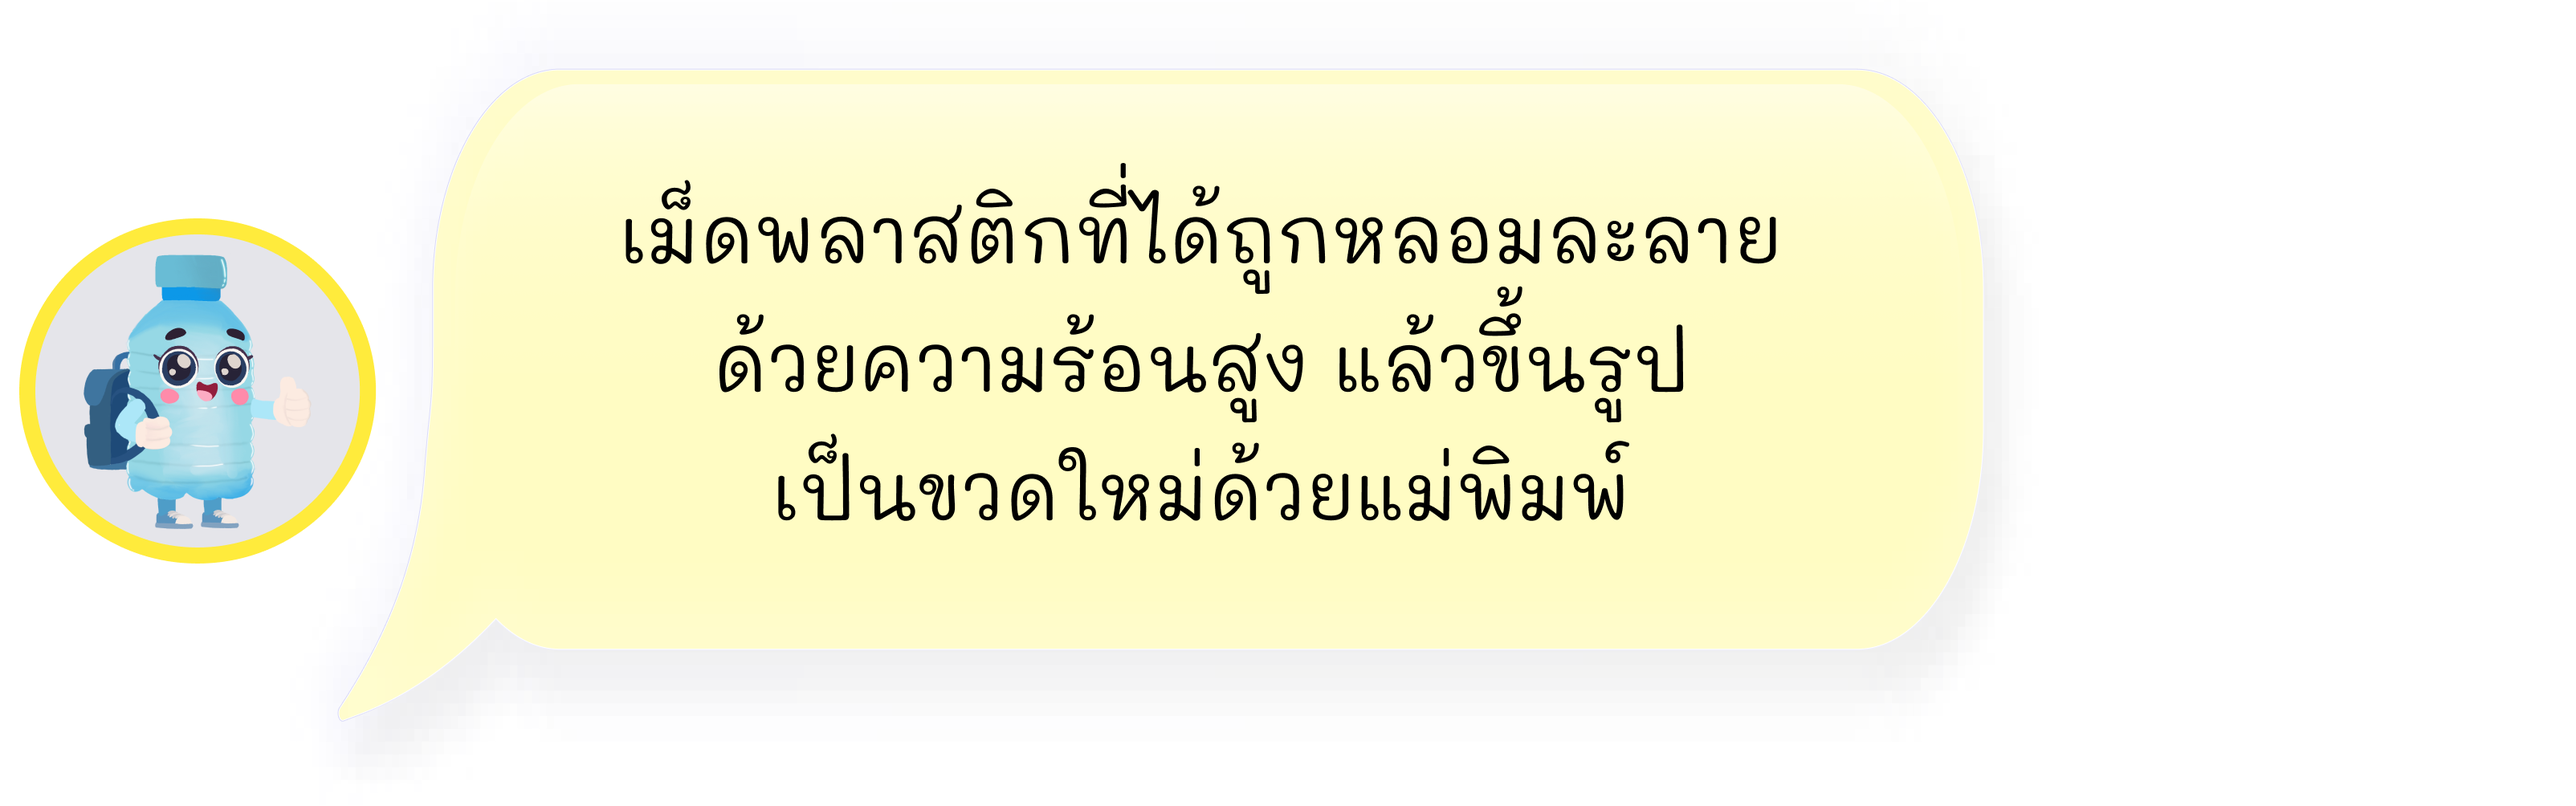
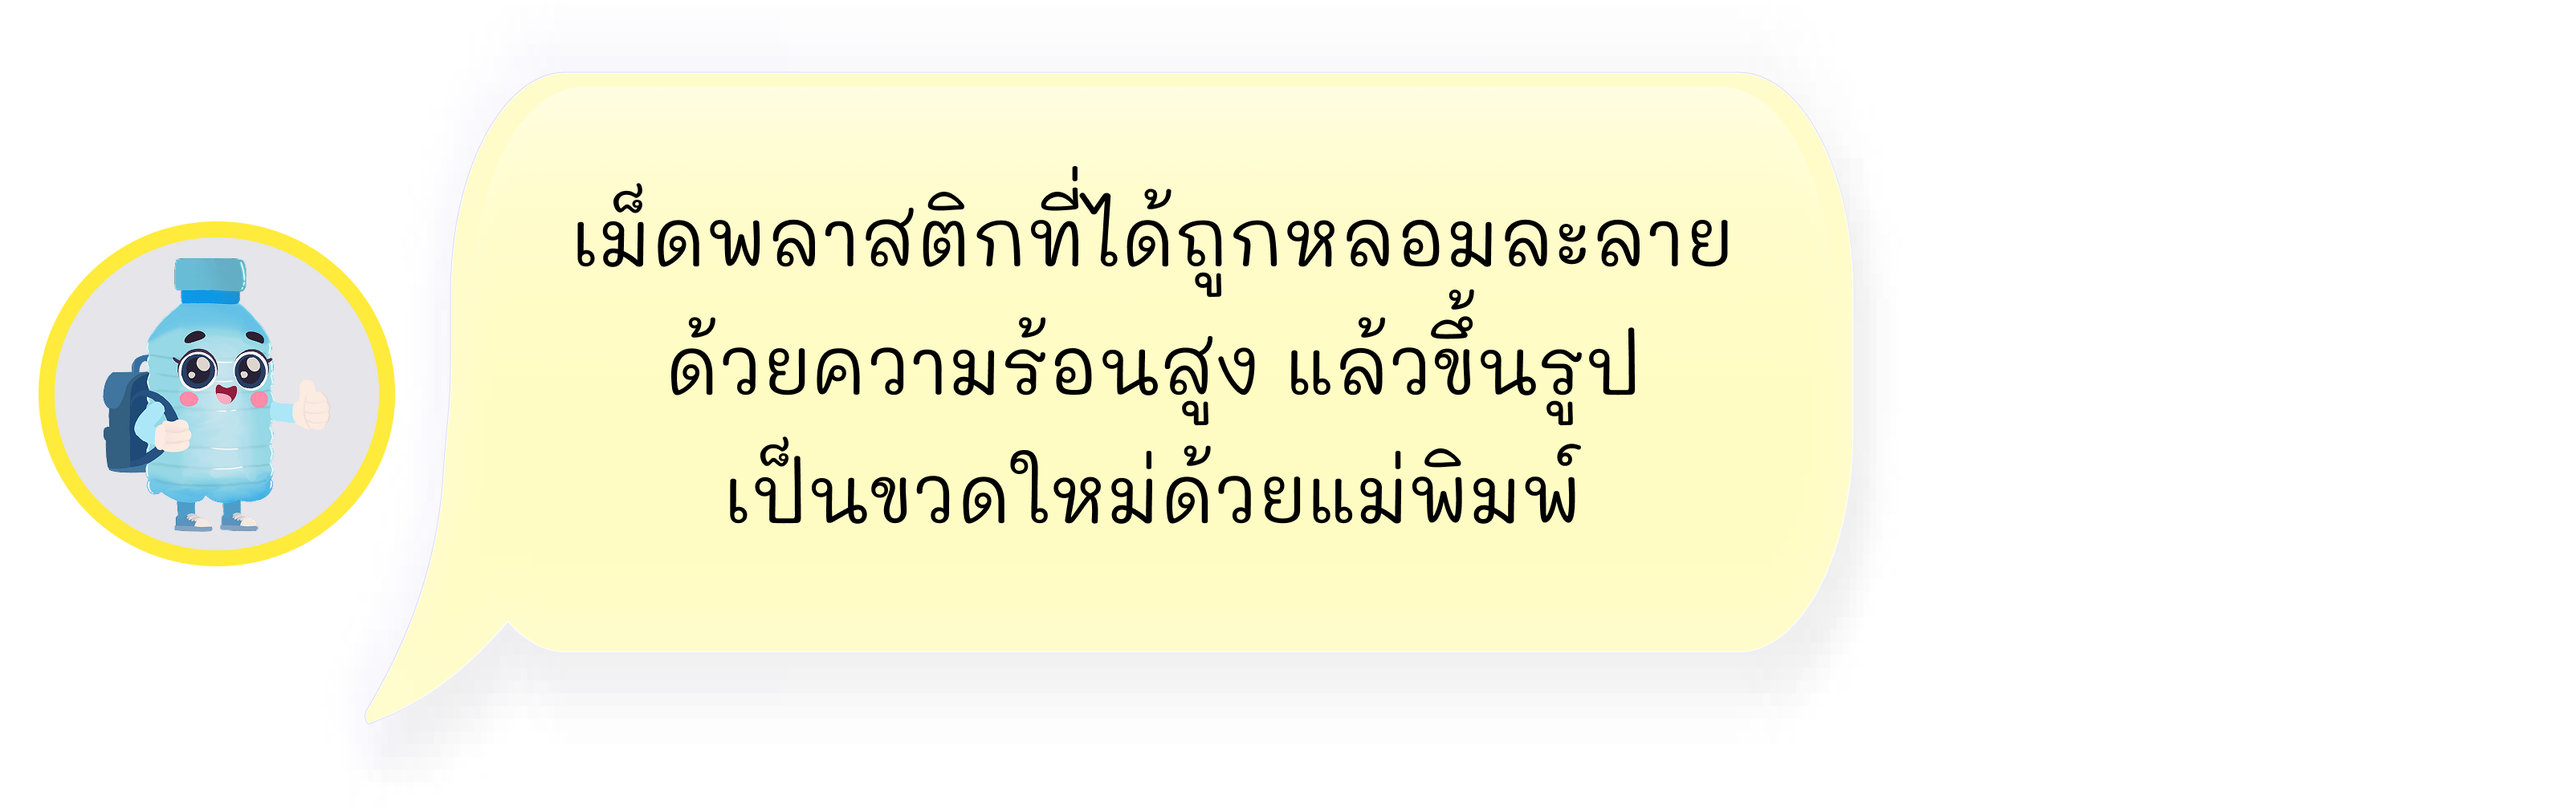
all

diff --git a/app/components/SceneRecycle1.tsx b/app/components/SceneRecycle1.tsx
@@ -40,33 +40,38 @@ export default function SceneRecycle1() {
 
   return (
     <>
-      {/* Scene 1 */}
-      <section id="scene-recycle1"  className="relative w-full min-h-screen overflow-hidden">
-        <Image
-          src="/assets/recycle1.png"
-          alt="recycle background"
-          width={1920}
-          height={1080}
-          className="w-full h-auto object-cover"
-          priority
-        />
+      <section id="scene-recycle1" className="relative w-full h-screen overflow-hidden">
+  <Image
+    src="/assets/recycle1.png"
+    alt="recycle background"
+    fill
+    priority
+    className="object-cover"
+  />
 
 <div
-        ref={recycleTopicRef}
-        className={`absolute top-[20%] right-[10%] w-[60vw] max-w-[1000px] z-10 transition-all duration-700 ease-out delay-200 ${
-          isRecycleTopicVisible
-            ? 'translate-y-0 scale-100 opacity-100'
-            : 'translate-y-10 scale-95 opacity-0'
-        }`}
-      >
-        <Image
-          src="/assets/topicrecycle1.png"
-          alt="topic"
-          width={1000}
-          height={500}
-          className="w-full h-auto"
-        />
-      </div>
+  ref={recycleTopicRef}
+  className={`absolute 
+              top-[12%] sm:top-[10%] md:top-[10%]  xl:top-[12%] 2xl:top-[12%]
+              right-[10%] 
+              w-[100vw] sm:w-[65vw] md:w-[60vw] xl:w-[70vw] 2xl:w-[120vw]
+              max-w-[1000px] 
+              z-10 
+              transition-all duration-700 ease-out delay-200
+              ${
+                isRecycleTopicVisible
+                  ? 'translate-y-0 scale-100 opacity-100'
+                  : 'translate-y-10 scale-95 opacity-0'
+              }`}
+>
+  <Image
+    src="/assets/topicrecycle1.png"
+    alt="topic"
+    width={1000}
+    height={500}
+    className="w-full h-auto"
+  />
+</div>
 
         <div className="absolute top-[60%] right-[10%] w-[40vw] max-w-[1000px] z-10">
           <Image
@@ -86,7 +91,7 @@ export default function SceneRecycle1() {
         >
           
           
-            <div className="relative w-[180px] sm:w-[300px] md:w-[320px] lg:w-[600px] xl:w-[650px] h-auto">
+            <div className="relative w-[180px] sm:w-[300px] md:w-[320px]  xl:w-[600px] 2xl:w-[800px] h-auto">
             <Image
               src="/assets/cargarbage.png"
               alt="car"
@@ -108,18 +113,14 @@ export default function SceneRecycle1() {
       </section>
 
       {/* Scene 2 */}
-      <section
-        id="scene-recycle-2"
-        className="relative w-full min-h-screen overflow-hidden"
-      >
-        <Image
-          src="/assets/recycle2.png"
-          alt="recycle background"
-          width={1920}
-          height={1197}
-          className="w-full h-auto object-cover"
-          priority
-        />
+      <section id="scene-recycle-2" className="relative w-full h-screen overflow-hidden">
+  <Image
+    src="/assets/recycle2.png"
+    alt="recycle background"
+    fill
+    priority
+    className="object-cover"
+  />
 
         {/* 🗑 garbage image */}
         <div
@@ -140,7 +141,7 @@ export default function SceneRecycle1() {
        {/* 📷 info image shown on click */}
 {showInfo && (
   <div
-    className="absolute bottom-[30%] lg:top-96 sm:top-36 md:top-44 left-1/2 -translate-x-1/2 z-30 cursor-pointer"
+    className="absolute bottom-[30%]  sm:top-20 md:top-20 xl:top-44 2xl:top-72  left-1/2 -translate-x-1/2 z-30 cursor-pointer"
     onClick={() => setShowInfo(false)}
   >
     <Image
@@ -148,7 +149,7 @@ export default function SceneRecycle1() {
       alt="info"
       width={350} // ลดขนาดลงจาก 400
       height={350} // ลดขนาดลงจาก 400
-      className="w-[30vw] max-w-[400px] h-auto rounded-lg shadow-lg"
+      className=" w-[70vw] sm:w-[30vw] md:w-[30vw]  xl:w-[35vw] 2xl:w-[35vw] h-auto rounded-lg shadow-lg"
     />
   </div>
 )}

diff --git a/app/components/Scene3R.tsx b/app/components/Scene3R.tsx
@@ -34,14 +34,14 @@ export default function Scene3R() {
             initial={{ opacity: 0, y: 30 }}
             animate={{ opacity: 1, y: 0 }}
             transition={{ duration: 0.6 }}
-            className="relative top-[8px] sm:top-[-35px]"
+            className="relative top-[8px] sm:top-[-30px] md:top-[-35px] xl:top-[-60px] 2xl:top-[-70px]"
           >
             <Image
               src={activeImage === 'reuse' ? '/assets/ruy.png' : '/assets/ru.png'}
               alt="reuse"
               width={120}
               height={120}
-              className="w-[80px] sm:w-[100px] md:w-[120px] lg:w-[200px] cursor-pointer hover:scale-105 transition"
+              className="w-[80px] sm:w-[100px] md:w-[120px] lg:w-[200px] 2xl:w-[300px] cursor-pointer hover:scale-105 transition"
               onClick={() => handleToggle('reuse')}
             />
           </motion.div>
@@ -51,14 +51,14 @@ export default function Scene3R() {
             initial={{ opacity: 0, y: 30 }}
             animate={{ opacity: 1, y: 0 }}
             transition={{ duration: 0.6, delay: 0.2 }}
-            className="relative top-[10px] sm:top-[-35px]"
+            className="relative top-[10px] sm:top-[-30px] md:top-[-35px] xl:top-[-60px] 2xl:top-[-70px]"
           >
             <Image
               src={activeImage === 'reduce' ? '/assets/rdy.png' : '/assets/rd.png'}
               alt="reduce"
               width={120}
               height={120}
-              className="w-[80px] sm:w-[100px] md:w-[120px] lg:w-[200px] cursor-pointer hover:scale-105 transition"
+              className="w-[80px] sm:w-[100px] md:w-[120px] lg:w-[200px]  2xl:w-[300px] cursor-pointer hover:scale-105 transition"
               onClick={() => handleToggle('reduce')}
             />
           </motion.div>
@@ -68,14 +68,14 @@ export default function Scene3R() {
             initial={{ opacity: 0, y: 30 }}
             animate={{ opacity: 1, y: 0 }}
             transition={{ duration: 0.6, delay: 0.4 }}
-            className="relative top-[10px] sm:top-[-35px]"
+            className="relative top-[10px] sm:top-[-30px] md:top-[-35px]  xl:top-[-60px] 2xl:top-[-70px]"
           >
             <Image
               src={activeImage === 'recycle' ? '/assets/rcy.png' : '/assets/rc.png'}
               alt="recycle"
               width={120}
               height={120}
-              className="w-[80px] sm:w-[100px] md:w-[120px] lg:w-[200px] cursor-pointer hover:scale-105 transition"
+              className="w-[80px] sm:w-[100px] md:w-[120px] lg:w-[200px]  2xl:w-[300px] cursor-pointer hover:scale-105 transition"
               onClick={() => handleToggle('recycle')}
             />
           </motion.div>
@@ -96,7 +96,7 @@ export default function Scene3R() {
               height={200}
               quality={100}
               unoptimized
-              className="w-[220px] sm:w-[350px] md:w-[360px] lg:w-[700px]"
+              className="w-[220px] sm:w-[350px] md:w-[360px] lg:w-[700px] 2xl:w-[1000px]"
             />
           )}
           {activeImage === 'reuse' && (
@@ -107,7 +107,7 @@ export default function Scene3R() {
               height={200}
               quality={100}
               unoptimized
-              className="w-[220px] sm:w-[350px] md:w-[360px] lg:w-[700px]"
+              className="w-[220px] sm:w-[350px] md:w-[360px] lg:w-[700px] 2xl:w-[1000px]"
             />
           )}
           {activeImage === 'recycle' && (
@@ -118,7 +118,7 @@ export default function Scene3R() {
               height={200}
               quality={100}
               unoptimized
-              className="w-[220px] sm:w-[350px] md:w-[360px] lg:w-[700px]"
+              className="w-[220px] sm:w-[350px] md:w-[360px] lg:w-[700px] 2xl:w-[1000px]"
             />
           )}
         </motion.div>

diff --git a/app/components/SceneNewBottle.tsx b/app/components/SceneNewBottle.tsx
@@ -61,7 +61,7 @@ export default function SceneNewBottle() {
              md:w-[20%] md:left-[19%] md:top-[30%]
             
              xl:w-[20%] xl:left-[14%] xl:top-[35%]
-             2xl:w-[20%] 2xl:left-[19%] 2xl:top-[30%]"
+             2xl:w-[20%] 2xl:left-[15%] 2xl:top-[30%]"
   onMouseEnter={() => setIsHoveringKapao(true)}
   onMouseLeave={() => setIsHoveringKapao(false)}
 >
@@ -74,7 +74,7 @@ export default function SceneNewBottle() {
              md:w-[18%] md:left-[18%] md:top-[15%]
              
              xl:w-[22%] xl:left-[11%] xl:top-[15%]
-             2xl:w-[18%] 2xl:left-[18%] 2xl:top-[13%]"
+             2xl:w-[22%] 2xl:left-[11%] 2xl:top-[15%]"
   onMouseEnter={() => setIsHoveringKapao(true)}
   onMouseLeave={() => setIsHoveringKapao(false)}
 >
@@ -109,7 +109,7 @@ export default function SceneNewBottle() {
              md:w-[20%] md:top-[15%] md:left-[40%]
              
              xl:w-[24%] xl:top-[18%] xl:left-[38%]
-             2xl:w-[20%] 2xl:top-[13%] 2xl:left-[40%]"
+             2xl:w-[24%] 2xl:top-[18%] 2xl:left-[38%]"
   onMouseEnter={() => setIsHoveringBottle(true)}
   onMouseLeave={() => setIsHoveringBottle(false)}
 >
@@ -131,7 +131,7 @@ export default function SceneNewBottle() {
              md:w-[18%] md:top-[32%] md:left-[62%]
             
              xl:w-[20%] xl:top-[35%] xl:left-[65%]
-             2xl:w-[16%] 2xl:top-[30%] 2xl:left-[63%]"
+             2xl:w-[18%] 2xl:top-[30%] 2xl:left-[66%]"
   onMouseEnter={() => setIsHoveringShirt(true)}
   onMouseLeave={() => setIsHoveringShirt(false)}
 >
@@ -148,7 +148,7 @@ export default function SceneNewBottle() {
                md:w-[100%] md:top-[-18%] md:left-[10%]
             
                xl:w-[110%] xl:top-[-22%] xl:left-[8%]
-               2xl:w-[110%] 2xl:top-[-18%] 2xl:left-[12%]"
+               2xl:w-[130%] 2xl:top-[-26%] 2xl:left-[10%]"
     onMouseEnter={() => setIsHoveringShirt(true)}
     onMouseLeave={() => setIsHoveringShirt(false)}
   >

diff --git a/app/components/SceneRecycle4.tsx b/app/components/SceneRecycle4.tsx
@@ -30,7 +30,7 @@ export default function SceneRecycle4() {
 
       {/* 💬 ขวดซ้าย - กดได้และกดกลับได้ */}
       <motion.div
-        className="absolute bottom-[40%] top-8 left-[8%] lg:left-[15%] md:left-[15%] sm:left-[15%] z-30 cursor-pointer"
+        className="absolute bottom-[40%] top-10 left-[8%] lg:left-[15%] md:left-[10%] xl:left-[10%] 2xl:top-[8%] sm:left-[15%] z-30 cursor-pointer"
         initial={{ opacity: 1 }}
         animate={{ opacity: 1 }}
         transition={{ duration: 0.5 }}
@@ -45,13 +45,13 @@ export default function SceneRecycle4() {
           alt="left typing"
           width={250}
           height={120}
-          className="w-[40vw] sm:w-[250px] md:w-[300px] lg:w-[600px] h-auto"
+          className="w-[40vw] sm:w-[250px] md:w-[200px] lg:w-[600px] 2xl:w-[800px] h-auto"
         />
       </motion.div>
 
       {/* 💬 ขวดขวา - กดได้และกดกลับได้ */}
       <motion.div
-        className="absolute bottom-[40%] top-10 right-[9%] sm:right-[5%] z-30 cursor-pointer"
+        className="absolute bottom-[40%] top-10 right-[9%] sm:right-[5%] xl:top-[20%] 2xl:top-[15%] 2xl:left-[55%] z-30 cursor-pointer"
         initial={{ opacity: 1 }}
         animate={{ opacity: 1 }}
         transition={{ duration: 0.5 }}
@@ -66,7 +66,7 @@ export default function SceneRecycle4() {
           alt="right typing"
           width={250}
           height={120}
-          className="w-[40vw] max-w-[500px] min-w-[300px] h-auto"
+          className="w-[40vw]  2xl:w-[1000px]   h-auto"
         />
       </motion.div>
     </div>

diff --git a/app/components/SceneHome.tsx b/app/components/SceneHome.tsx
@@ -91,15 +91,14 @@ export default function SceneHome() {
         }`}
       />
 
-      <div className="relative w-full h-auto overflow-hidden">
-        <Image
-          src="/assets/banner.jpg"
-          alt="banner"
-          width={1920}
-          height={1080}
-          className="w-full h-auto object-cover"
-          priority
-        />
+<div className="relative w-full h-screen overflow-hidden">
+  <Image
+    src="/assets/banner.jpg"
+    alt="banner"
+    fill
+    priority
+    className="object-cover w-full h-full"
+  />
 
         <div className="absolute top-[5%] left-1/2 -translate-x-1/2 z-10 w-fit">
           <Image
@@ -107,7 +106,7 @@ export default function SceneHome() {
             alt="topic"
             width={500}
             height={500}
-            className="w-[38vw] max-w-[1000px] min-w-[150px] h-auto"
+            className="w-[35vw] max-w-[1000px] min-w-[150px] h-auto"
           />
           
           <Image

diff --git a/app/components/SceneRecycle3.tsx b/app/components/SceneRecycle3.tsx
@@ -36,7 +36,7 @@ export default function SceneRecycle3() {
             alt="typing hint"
             width={600}
             height={400}
-            className="w-[70vw] sm:w-[40vw] md:w-[40vw] lg:w-[800px] max-w-[800px] h-auto"
+            className="w-[70vw] sm:w-[40vw] md:w-[40vw] xl:w-[700px] max-w-[800px] h-auto"
           />
         ) : (
           <Image
@@ -44,7 +44,7 @@ export default function SceneRecycle3() {
             alt="text explanation"
             width={600}
             height={400}
-            className="w-[70vw] sm:w-[40vw] md:w-[40vw] lg:w-[800px] max-w-[800px] h-auto"
+            className="w-[70vw] sm:w-[40vw] md:w-[40vw] xl:w-[700px] max-w-[800px] h-auto"
           />
         )}
       </div>

diff --git a/app/layout.tsx b/app/layout.tsx
@@ -42,5 +42,13 @@ export default function RootLayout({
     </html>
   );
 }
-
-
+// tailwind.config.js
+module.exports = {
+  theme: {
+    extend: {
+      screens: {
+        'laptop-md': '1280px', // ใช้กับหน้าจอ 1280x800
+      },
+    },
+  },
+}
